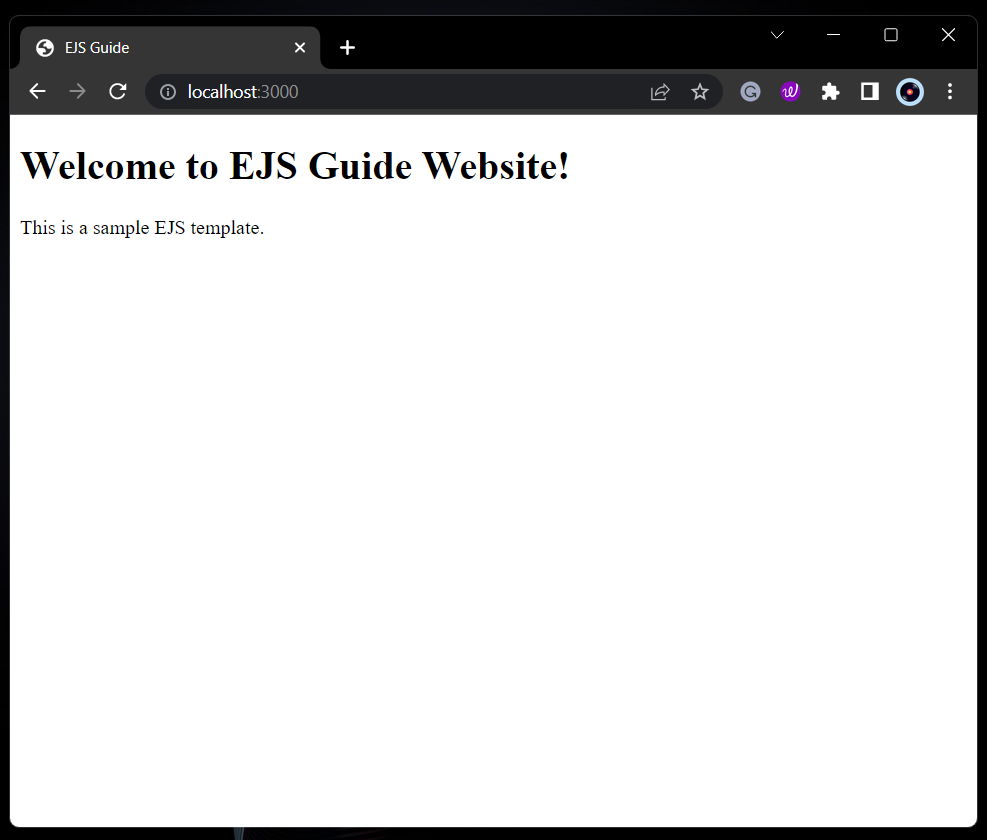
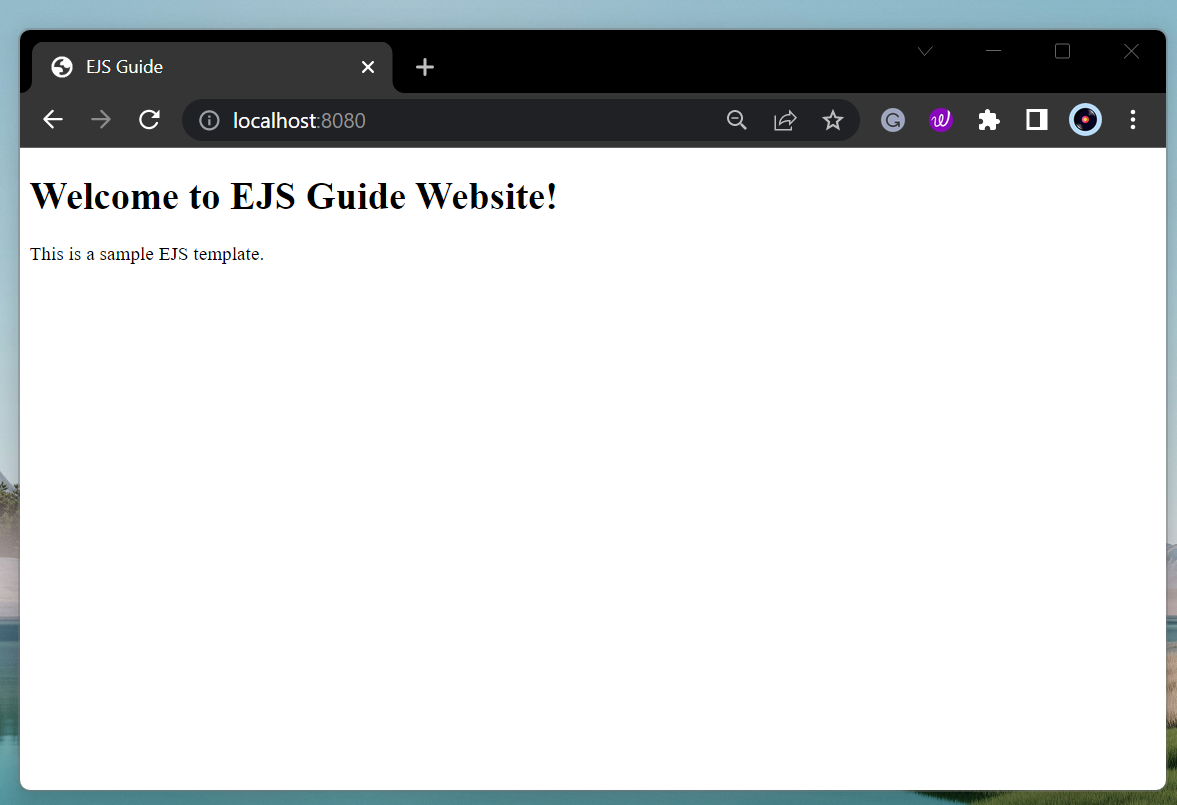
edit after peer-review -selina

Changed region(s): [[0.0, 0.0, 1.0, 1.0]]

diff --git a/docs/task1.md b/docs/task1.md
@@ -2,11 +2,14 @@
 
 ## Overview
 
-In this section, we will guide beginners through the installation process of EJS. We will provide step-by-step instructions on how to install the necessary software and modules to get started with EJS. We will also explain the prerequisites for using EJS and provide helpful tips to ensure a smooth installation process.
+In this section, we will guide beginners through the **installation process of EJS**. We will provide step-by-step instructions on how to install the necessary software and modules to get started with EJS. We will also explain the prerequisites for using EJS and provide helpful tips to ensure a smooth installation process.
 
-By the end of this section, beginners will have a solid understanding of the software requirements for using EJS and will be able to successfully install EJS and its dependencies. Whether you are a web development novice or an experienced developer new to EJS, this section will provide a comprehensive guide to get you up and running with EJS quickly and easily.
+👍By the end of this section, beginners will have a solid understanding of the software requirements for using EJS and will be able to successfully install EJS and its dependencies. Whether you are a web development novice or an experienced developer new to EJS, this section will provide a comprehensive guide to get you up and running with EJS quickly and easily.
 
 ## Prerequisites
+
+???+Note
+Please click on the name of the software to go to the official download website!
 
 - Download [Node.js](https://nodejs.org/en).
 
@@ -18,73 +21,103 @@ Follow these steps to install EJS.
 At this point, you should have Node.js and VS Code installed on your local computer.
 
 1. Create a new project directory.
-      1. Open your terminal or command prompt.
-      2. Move to your desktop!
-   ```py
-   cd Desktop
-   ```
-      3. Create a new directory for your project by entering the following command:
-   ```py
-   mkdir my-ejs-project
-   ```
-2. In your same terminal, navigate to the project directory.
-      1. Navigate to the project directory by entering the following command in the terminal.
-   ```py
-   cd my-ejs-project
-   ```
-3. Initialize a new Node.js project.
-      1. In the terminal, run the following command to open your project directory in "Visual Studio Code"
-   ```py
-   code .
-   ```
-      2. Once the "Visual Studio Code" is opened, open the console by pressing **ctrl+J** (Windows) or **BRIAN HERE** (Mac) to open the console.
-      3. Use the following command to install EJS using npm (Node Package Manager) in the console. This will create a "package.json" and "package-lock.json" file in the project directory.
-   ```py
-   npm init
-   ```
-      4. You can accept the default values for most of the prompts, or customize them as needed.
+      
+      a. Open your terminal or command prompt.
 
-      ![npm i](images/image2.png) 
+      b. Move to your desktop by typing the following command: 
+    ```py
+    cd Desktop
+    ```
 
-4. Install Express module. 
-      1. Enter the following command in the terminal. 
-      2. This will install Express as a dependency for your project.
-      ```py
-      npm install express
-      ```
-5. Install EJS module. 
-      1. Enter the following command in the terminal. 
-      2. This will install EJS as a dependency for your project.
-      ```py
-      npm install ejs 
-      ```
-6. Create a new file in you project directory named "app.js". 
-      1. This will serve as the main entry point for your application. 
-7. Open "app.js" in your Visual Code Studio. 
-8. Require the "express" module by adding the following line to the top of your "app.js".
-      ``` py
-      const express = require(`express`);
-      ``` 
-9. Create an instance of the Express application by adding the following line in your "app.js".
-      ```py
-      const app = exprees();
-      ``` 
-10. Set the view engine to EJS by adding the following line in your "app.js".
-      ``` py
-      app.set(`view engine`,  `ejs`);
-      ``` 
-11. Create a route for your application by adding the following lines: 
-      1. This route will render a file named "index.ejs" located in the "views" directory. Now let's create this file!
-      ```py
-      app.get('/', (req, res) => {
-            res.render('index');
-      });
-      ```
-12. Create a "views" directory in your project directory. 
-13. Creae a new file in the "views" directory named "index.ejs".
+      c. Create a new directory for your project by entering the following command:
+    ```py
+    mkdir my-ejs-project
+    ```
+
+2.  In your same terminal, navigate to the project directory by entering the following command in the terminal.
+    ```py
+    cd my-ejs-project
+    ```
+
+3.  In the terminal, run the following command to open your project directory in "Visual Studio Code".
+    ```py
+    code .
+    ```
+
+4. Once the "Visual Studio Code" is opened, open the console by pressing **ctrl+J** (Windows) or **BRIAN HERE** (Mac) to open the console.
+
+5. Use the following command to install EJS using npm (Node Package Manager) in the console. This will create a "package.json" file in the project directory.
+
+    ```py
+    npm init -y
+    ```
+
+    ![npm i](images/image2.png)
+
+6.  Install Express module.
+
+      a. Enter the following command in the terminal.
+
+      b. This will install Express as a dependency for your project.
+    ```py
+    npm install express
+    ```
+
+7.  Install EJS module.
+
+      a. Enter the following command in the terminal.
+
+      b. This will install EJS as a dependency for your project.
+    ```py
+    npm install ejs
+    ```
+
+8. If you have successfully installed both npm and EJS, your "package.json" should show npm and EJS in "dependencies". 
+    ![npm i](images/image4.png)
+
+9. Create a new file in you project directory named "app.js".
+
+      a. This will serve as the main entry point for your application.
+
+10.  Require the "express" module by adding the following line to the top of your "app.js".
+    ```py
+    const express = require(`express`);
+    ```
+
+11.  Create an instance of the Express application by adding the following line in your "app.js".
+    ```py
+    const app = express();
+    ```
+
+12. Set the view engine to EJS by adding the following line in your "app.js".
+    ```py
+    app.set(`view engine`,  `ejs`);
+    ```
+
+13. Create a route for your application by adding the following lines. This route will render a file named "index.ejs" located in the "views" directory. Now let's create this file!
+    ```py
+    app.get('/', (req, res) => {
+          res.render('index');
+    });
+    ```
+
+14. Create a "views" directory in your project directory.
+
+15. Creae a new file in the "views" directory named "index.ejs".
+
+16. Add this line to bottom of your "app.js" file.
+```py
+app.listen(8080, ()=>{
+      console.log("Server is listening on port 8080");
+})
+```
 
 ???+Suceess
-Now you are ready to explore the dynamics of EJS!
+      Now you are ready to explore the dynamics of EJS!
+
+???+Outcome
+    ![npm i](images/image5.png)
+
 
 ## EJS Tags
 

diff --git a/docs/task2.md b/docs/task2.md
@@ -26,89 +26,132 @@ CLI stands for "Command Line Interface".
 
 ## Create a basic EJS template
 
-1. Create a a new folder called "views".
-2. Inside of your "views" folder, create a new file in your project directory called index.ejs.
+Inside of your "views" folder, you have your "index.ejs" file. This file will contain your EJS template.
 
-This file will contain your EJS template. Here's an example of a simple EJS template:
+Here's an example of a simple EJS template:
 
 ```
-  <!DOCTYPE html>
+<!DOCTYPE html>
 <html>
   <head>
-    <title><%= title %></title>
+    <title><%= data.title %></title>
   </head>
   <body>
-    <h1><%= heading %></h1>
-    <p><%= message %></p>
+    <h1><%= data.heading %></h1>
+    <p><%= data.message %></p>
   </body>
 </html>
 ```
 
 In this template, there will be three EJS expressions:
 
-- <%= title %> will display the value of the title variable.
-- <%= heading %> will display the value of the heading variable.
-- <%= message %> will display the value of the message variable.
+- <%= data.title %> will display the value of the title variable.
+- <%= data.heading %> will display the value of the heading variable.
+- <%= data.message %> will display the value of the message variable.
 
 ???+Success
     You have created a basic EJS template. You can now use this template to generate HTML markup with plain JavaScript.
 
 ## Create Data to Pass to the Template
 
-> One of the main benefits of using a templating language like EJS is the ability to pass data to the template.
+> One of the main benefits of using a templating language like EJS is the ability to pass data to the template. In order to display dynamic content on the web page, we need to pass data to the EJS template.
 
-In order to display dynamic content on the web page, we need to pass data to the EJS template. To do this, create a new file in your project folder called data.js. This file will contain the data that we want to display on our web page.
+1. To do this, create an object with the data that you want to dynamically display in your HTML file in your "app.js" file. For example, let's create an object with a title, heading, and message.
 
-Create an object with the data that you want to dynamically display in your HTML file. For example, let's create an object with a title, heading, and message.
+2. Simply, copy and paste the following code in your "app.js" file.
 
-```js
+```py
 const data = {
   title: "EJS Guide",
   heading: "Welcome to EJS Guide Website!",
   message: "This is a sample EJS template.",
 };
-
-module.exports = data;
 ```
 
-## Set up your Express app
+3. Now, pass in your data to ejs file by modifying your "app.get" function in you "app.js" file.
+
+```py
+app.get("/", (req, res) => {
+  res.render("index", {data});
+});
+```
+
+## One step before you run your first dynamic ejs file!
+
+### Successful Outcome
+
+![npm i](images/image6.png)
 
 Create a new file in your project folder called app.js. This file will contain the code to set up your Express.js app.
 
 ```js
 const express = require("express");
 const app = express();
-const data = require("./data");
+
+const data = {
+  title: "EJS Guide",
+  heading: "Welcome to EJS Guide Website!",
+  message: "This is a sample EJS template.",
+};
 
 app.set("view engine", "ejs");
 
 app.get("/", (req, res) => {
-  res.render("index", data);
+  res.render("index", { data });
 });
 
-app.listen(3000, () => {
-  console.log("Server started on port 3000");
+app.listen(8080, () => {
+  console.log("Server is listening on port 8080");
 });
 ```
 
 In this code, we:
 
-- Require the express module and create a new instance of an express app.
-- Require the data from our data.js file.
-- Set the view engine to EJS.
-- Create a new route that renders our index.ejs file and passes in the data from data.js.
-- Start the server on port 3000 and log a message to the console.
+- `const express = require("express");`
+
+    - This line imports the express module, which is a popular framework for building web applications in Node.js.
+
+- `const app = express();`
+
+    - This creates an instance of the express application.
+
+- `const data = {
+  title: "EJS Guide",
+  heading: "Welcome to EJS Guide Website!",
+  message: "This is a sample EJS template.",
+};` 
+
+    - This creates an object called data that contains some information that will be used to render a web page.
+
+- `app.set("view engine", "ejs");`
+
+    - This line tells the express application to use the EJS template engine for rendering views. EJS stands for Embedded JavaScript, which is a popular template language for building web pages.
+
+- `app.get("/", (req, res) => {
+  res.render("index", { data });
+});`
+
+    - This sets up a route handler for the root URL of the application ("/"). When a client requests this URL, the app.get() function will be called. This function takes two arguments: a callback function and an object. The callback function takes two arguments: req (short for "request") and res (short for "response"). The req object represents the HTTP request that the client sent, and the res object represents the HTTP response that the server will send back to the client.
+
+    - Inside the callback function, the res.render() function is called, which tells express to render the "index" view using the data object we defined earlier. The "index" view is an EJS template that will be used to generate the HTML that will be sent back to the client.
+
+- `app.listen(8080, () => {
+  console.log("Server is listening on port 8080");
+});`
+
+    - This starts the express application and listens for incoming HTTP requests on port 8080. When the server starts up, it will log a message to the console to let you know that it's running.
 
 ## Start the server
 
-In the terminal, run the following command to start the server:
+In the terminal in your Visual Studio Code, run the following command to start the server:
 
 ```
 node app.js
 ```
 
 ???+Success
-    Now, visit "http://localhost:3000"
+    Now, visit "http://localhost:8080"
 
 ## Outcome
+
 ![npm i](images/image1.png)

diff --git a/src/README.md b/src/README.md
@@ -12,9 +12,30 @@ The goal of this documentation is to provide a comprehensive guide on how to use
 
 #### Topics covered:
 
-- Installing EJS
-- Creating EJS templates
-- Conditional statements in EJS templates
+- index.md: Introduction page
+
+    - The file covers the intended user of EJS and intended use of the following software. Also it identifies prerequisite knowledge for using EJS. It also lists the required software, including Node.js and a code editor such as Visual Studio Code.
+
+- task1.md: Installing EJS
+
+    - This file guides on how to install and set up EJS, a templating engine for Node.js. It provides step-by-step instructions on how to install the necessary software and modules, and create a simple web application that uses EJS templates to render dynamic content. The guide assumes that the reader has some basic knowledge of web development and is comfortable using a terminal or command prompt. It also introduces the basic EJS tags that are used to embed dynamic content in the templates.
+
+- task2.md: Creating EJS templates
+
+    - This file explains the benefits of using EJS templates and how to pass data to the template. It also provides instructions on how to set up an Express.js application, import the EJS template engine, and render a view using the data passed in.
+
+- task3.md: Conditional statements in EJS templates
+
+    - This file is about using conditional statements in EJS templates to display different content based on certain conditions. It explains about how to use if, else, and else-if statements in EJS templates, and how to interpolate variables into the HTML output. By using these conditional statements, developers can create more dynamic and personalized content for their web applications. The article also emphasizes the importance of understanding conditional statements to create more engaging web applications.
+
+
+- Glossary
+
+    - This file explains the glossaries used in our user documentation. 
+
+- Troubleshoot-guide.md
+
+    - The file is a guide to troubleshoot common issues that may arise when working with EJS (Embedded JavaScript) templates. It provides solutions to issues such as incorrect rendering of templates, EJS tags not being evaluated properly, data not being displayed correctly, syntax errors, incorrect installation of EJS, incorrect data types, incorrect data rendering, issues with rendering HTML tags, incorrect file paths or extensions, slow rendering or performance issues, and problems with displaying images or other external resources. By addressing these issues, the guide helps users ensure that their EJS templates work as expected and that their development process is smooth and efficient.
 
 ### Who Is This For?
 
@@ -40,4 +61,4 @@ EJS is a powerful templating engine that allows you to generate dynamic HTML mar
 - Allows you to create reusable templates that can be used across multiple pages, saving you time and effort
   Overall, EJS is a powerful tool that can help you build dynamic web pages quickly and easily. We hope this documentation will help you learn how to use EJS effectively and take your web development skills to the next level!
 
-// Brian did the task1, task3 and troubleshooting , Selina did index, task2 and glossary. 
+// Brian did the task1, task3 and troubleshooting , Selina did index, task 1, task2 and glossary. 

diff --git a/docs/index.md b/docs/index.md
@@ -33,10 +33,9 @@ This documentation assumes the following:
 
 - **[Node.js](https://nodejs.org/en)**: EJS runs on Node.js _(JavaScript runtime environment)_.
 
-- **[Visual Studio Code](https://code.visualstudio.com/download)** : This is required to create and edit your EJS files. This documentation is using "Visual Studio Code". However, you can choose other code editor such as Sublime Text, and Atom.
+- **[Visual Studio Code](https://code.visualstudio.com/download)** : This is required to create and edit your EJS files. This documentation is using "Visual Studio Code". However, you can choose other code editor such as Sublime Text.
 
-- **[EJS module](https://www.npmjs.com/package/ejs)**
-  > This documentation will guide you through the installation process of EJS.
+- **[EJS module](https://www.npmjs.com/package/ejs)** This documentation will guide you through the installation process of EJS 👍
 
 ## Procedures Overview
 
